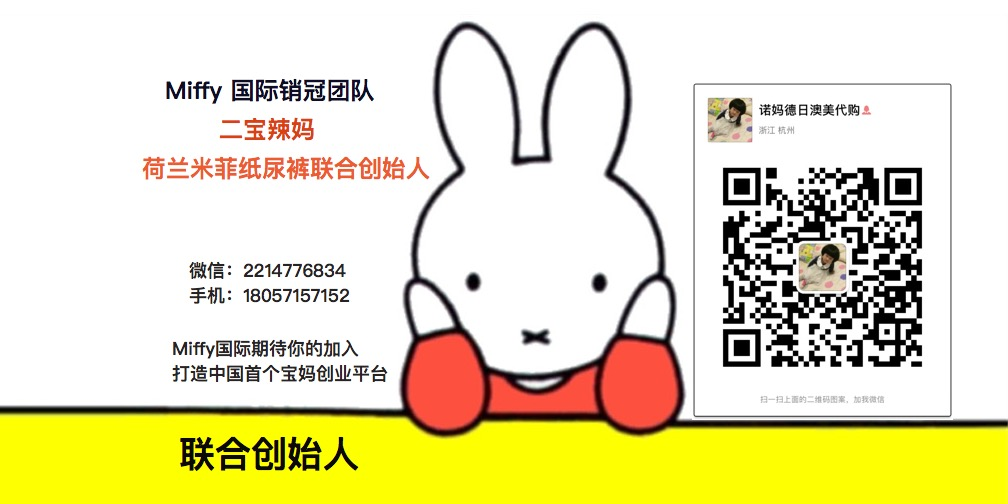
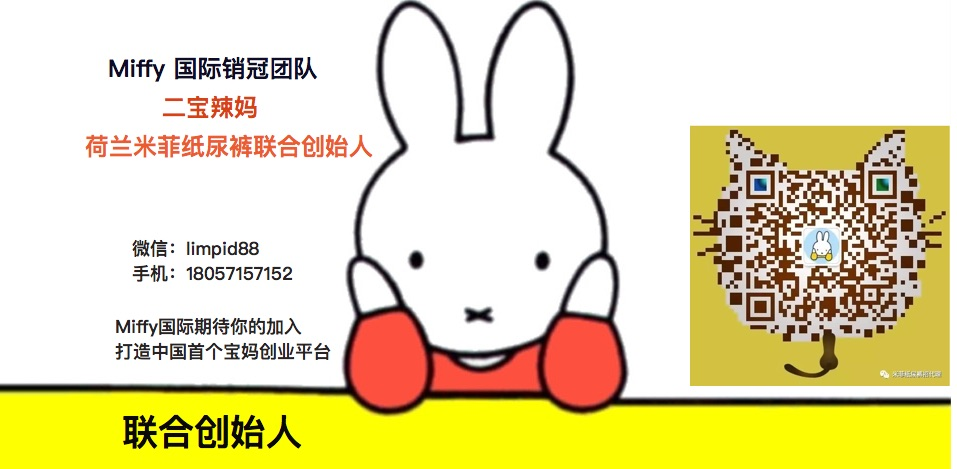
t

diff --git a/404.html b/404.html
@@ -181,7 +181,7 @@
   
 <div class="container copyright">
   
-  &copy; 2015 米菲Miffy纸尿裤合作招商代理. 加微信 2214776834 电话 18057157152 咨询
+  &copy; 2015 米菲Miffy纸尿裤合作招商代理. 加微信 limpid88 电话 18057157152 咨询
 
 
 </div>

diff --git a/about/index.html b/about/index.html
@@ -262,7 +262,7 @@
   
 <div class="container copyright">
   
-  &copy; 2015 米菲Miffy纸尿裤合作招商代理. 加微信 2214776834 电话 18057157152 咨询
+  &copy; 2015 米菲Miffy纸尿裤合作招商代理. 加微信 limpid88 电话 18057157152 咨询
 
 
 </div>

diff --git a/detail/index.html b/detail/index.html
@@ -280,7 +280,7 @@
   
 <div class="container copyright">
   
-  &copy; 2015 米菲Miffy纸尿裤合作招商代理. 加微信 2214776834 电话 18057157152 咨询
+  &copy; 2015 米菲Miffy纸尿裤合作招商代理. 加微信 limpid88 电话 18057157152 咨询
 
 
 </div>

diff --git a/factory/index.html b/factory/index.html
@@ -284,7 +284,7 @@
   
 <div class="container copyright">
   
-  &copy; 2015 米菲Miffy纸尿裤合作招商代理. 加微信 2214776834 电话 18057157152 咨询
+  &copy; 2015 米菲Miffy纸尿裤合作招商代理. 加微信 limpid88 电话 18057157152 咨询
 
 
 </div>

diff --git a/how/index.html b/how/index.html
@@ -263,7 +263,7 @@
   
 <div class="container copyright">
   
-  &copy; 2015 米菲Miffy纸尿裤合作招商代理. 加微信 2214776834 电话 18057157152 咨询
+  &copy; 2015 米菲Miffy纸尿裤合作招商代理. 加微信 limpid88 电话 18057157152 咨询
 
 
 </div>

diff --git a/index.html b/index.html
@@ -515,7 +515,7 @@
   
 <div class="container copyright">
   
-  &copy; 2015 米菲Miffy纸尿裤合作招商代理. 加微信 2214776834 电话 18057157152 咨询
+  &copy; 2015 米菲Miffy纸尿裤合作招商代理. 加微信 limpid88 电话 18057157152 咨询
 
 
 </div>

diff --git a/license/index.html b/license/index.html
@@ -263,7 +263,7 @@
   
 <div class="container copyright">
   
-  &copy; 2015 米菲Miffy纸尿裤合作招商代理. 加微信 2214776834 电话 18057157152 咨询
+  &copy; 2015 米菲Miffy纸尿裤合作招商代理. 加微信 limpid88 电话 18057157152 咨询
 
 
 </div>

diff --git a/page/2/index.html b/page/2/index.html
@@ -428,7 +428,7 @@
   
 <div class="container copyright">
   
-  &copy; 2015 米菲Miffy纸尿裤合作招商代理. 加微信 2214776834 电话 18057157152 咨询
+  &copy; 2015 米菲Miffy纸尿裤合作招商代理. 加微信 limpid88 电话 18057157152 咨询
 
 
 </div>

diff --git a/post/index.html b/post/index.html
@@ -328,7 +328,7 @@
   
 <div class="container copyright">
   
-  &copy; 2015 米菲Miffy纸尿裤合作招商代理. 加微信 2214776834 电话 18057157152 咨询
+  &copy; 2015 米菲Miffy纸尿裤合作招商代理. 加微信 limpid88 电话 18057157152 咨询
 
 
 </div>

diff --git a/post/page/2/index.html b/post/page/2/index.html
@@ -229,7 +229,7 @@
   
 <div class="container copyright">
   
-  &copy; 2015 米菲Miffy纸尿裤合作招商代理. 加微信 2214776834 电话 18057157152 咨询
+  &copy; 2015 米菲Miffy纸尿裤合作招商代理. 加微信 limpid88 电话 18057157152 咨询
 
 
 </div>

diff --git a/qualification/index.html b/qualification/index.html
@@ -277,7 +277,7 @@
   
 <div class="container copyright">
   
-  &copy; 2015 米菲Miffy纸尿裤合作招商代理. 加微信 2214776834 电话 18057157152 咨询
+  &copy; 2015 米菲Miffy纸尿裤合作招商代理. 加微信 limpid88 电话 18057157152 咨询
 
 
 </div>

diff --git a/tags/index.html b/tags/index.html
@@ -303,7 +303,7 @@
   
 <div class="container copyright">
   
-  &copy; 2015 米菲Miffy纸尿裤合作招商代理. 加微信 2214776834 电话 18057157152 咨询
+  &copy; 2015 米菲Miffy纸尿裤合作招商代理. 加微信 limpid88 电话 18057157152 咨询
 
 
 </div>
